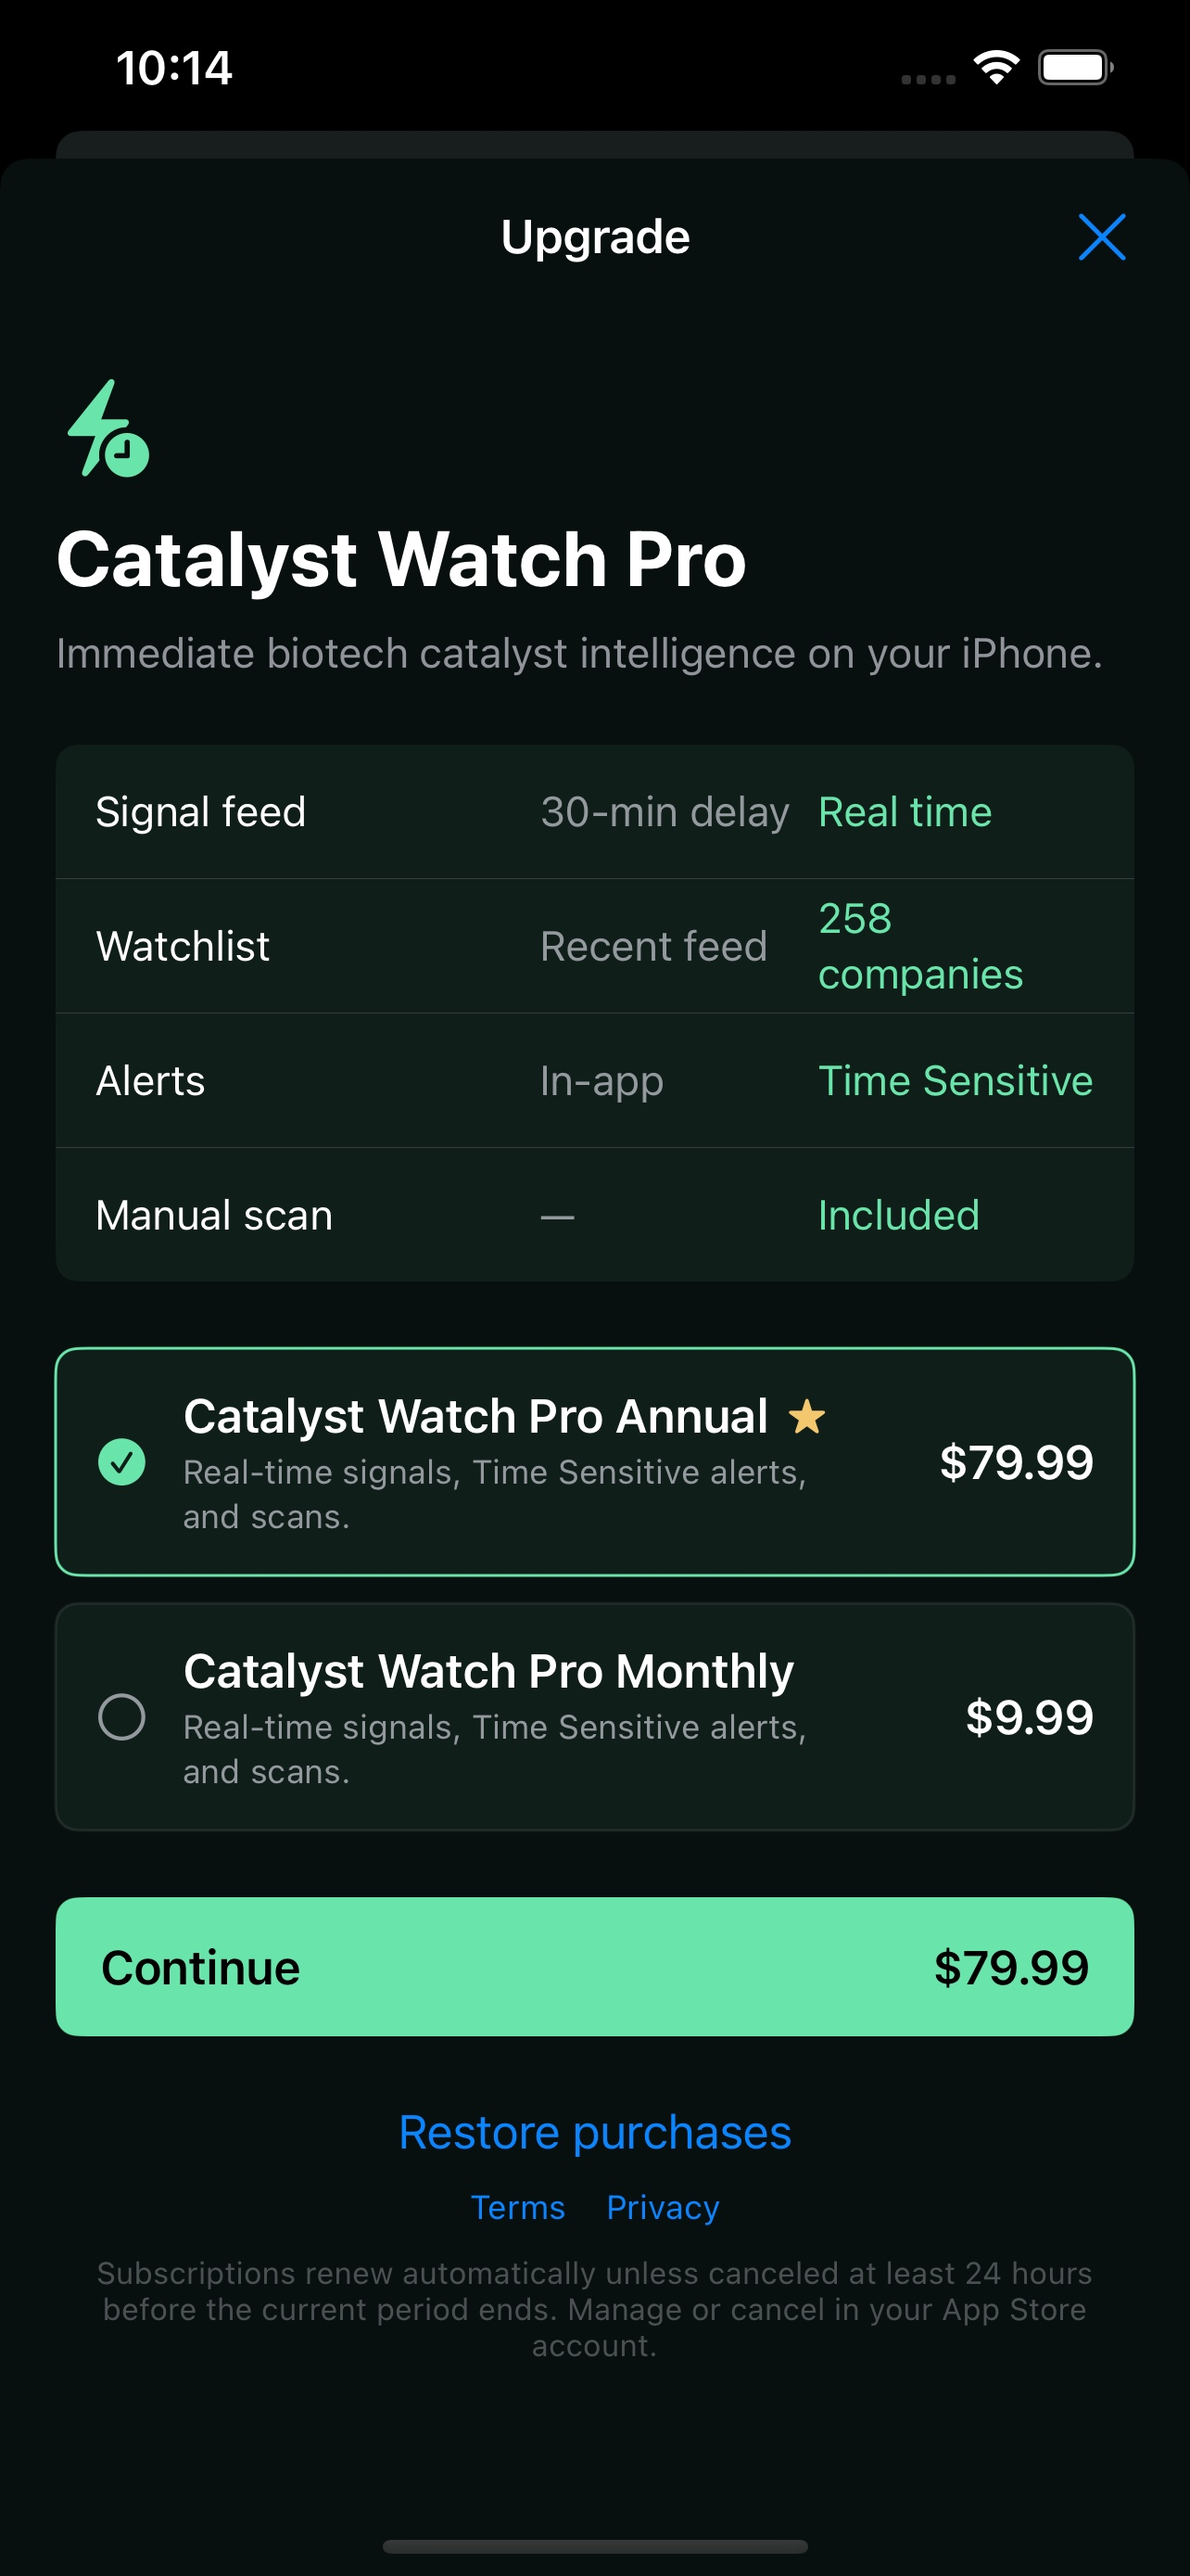
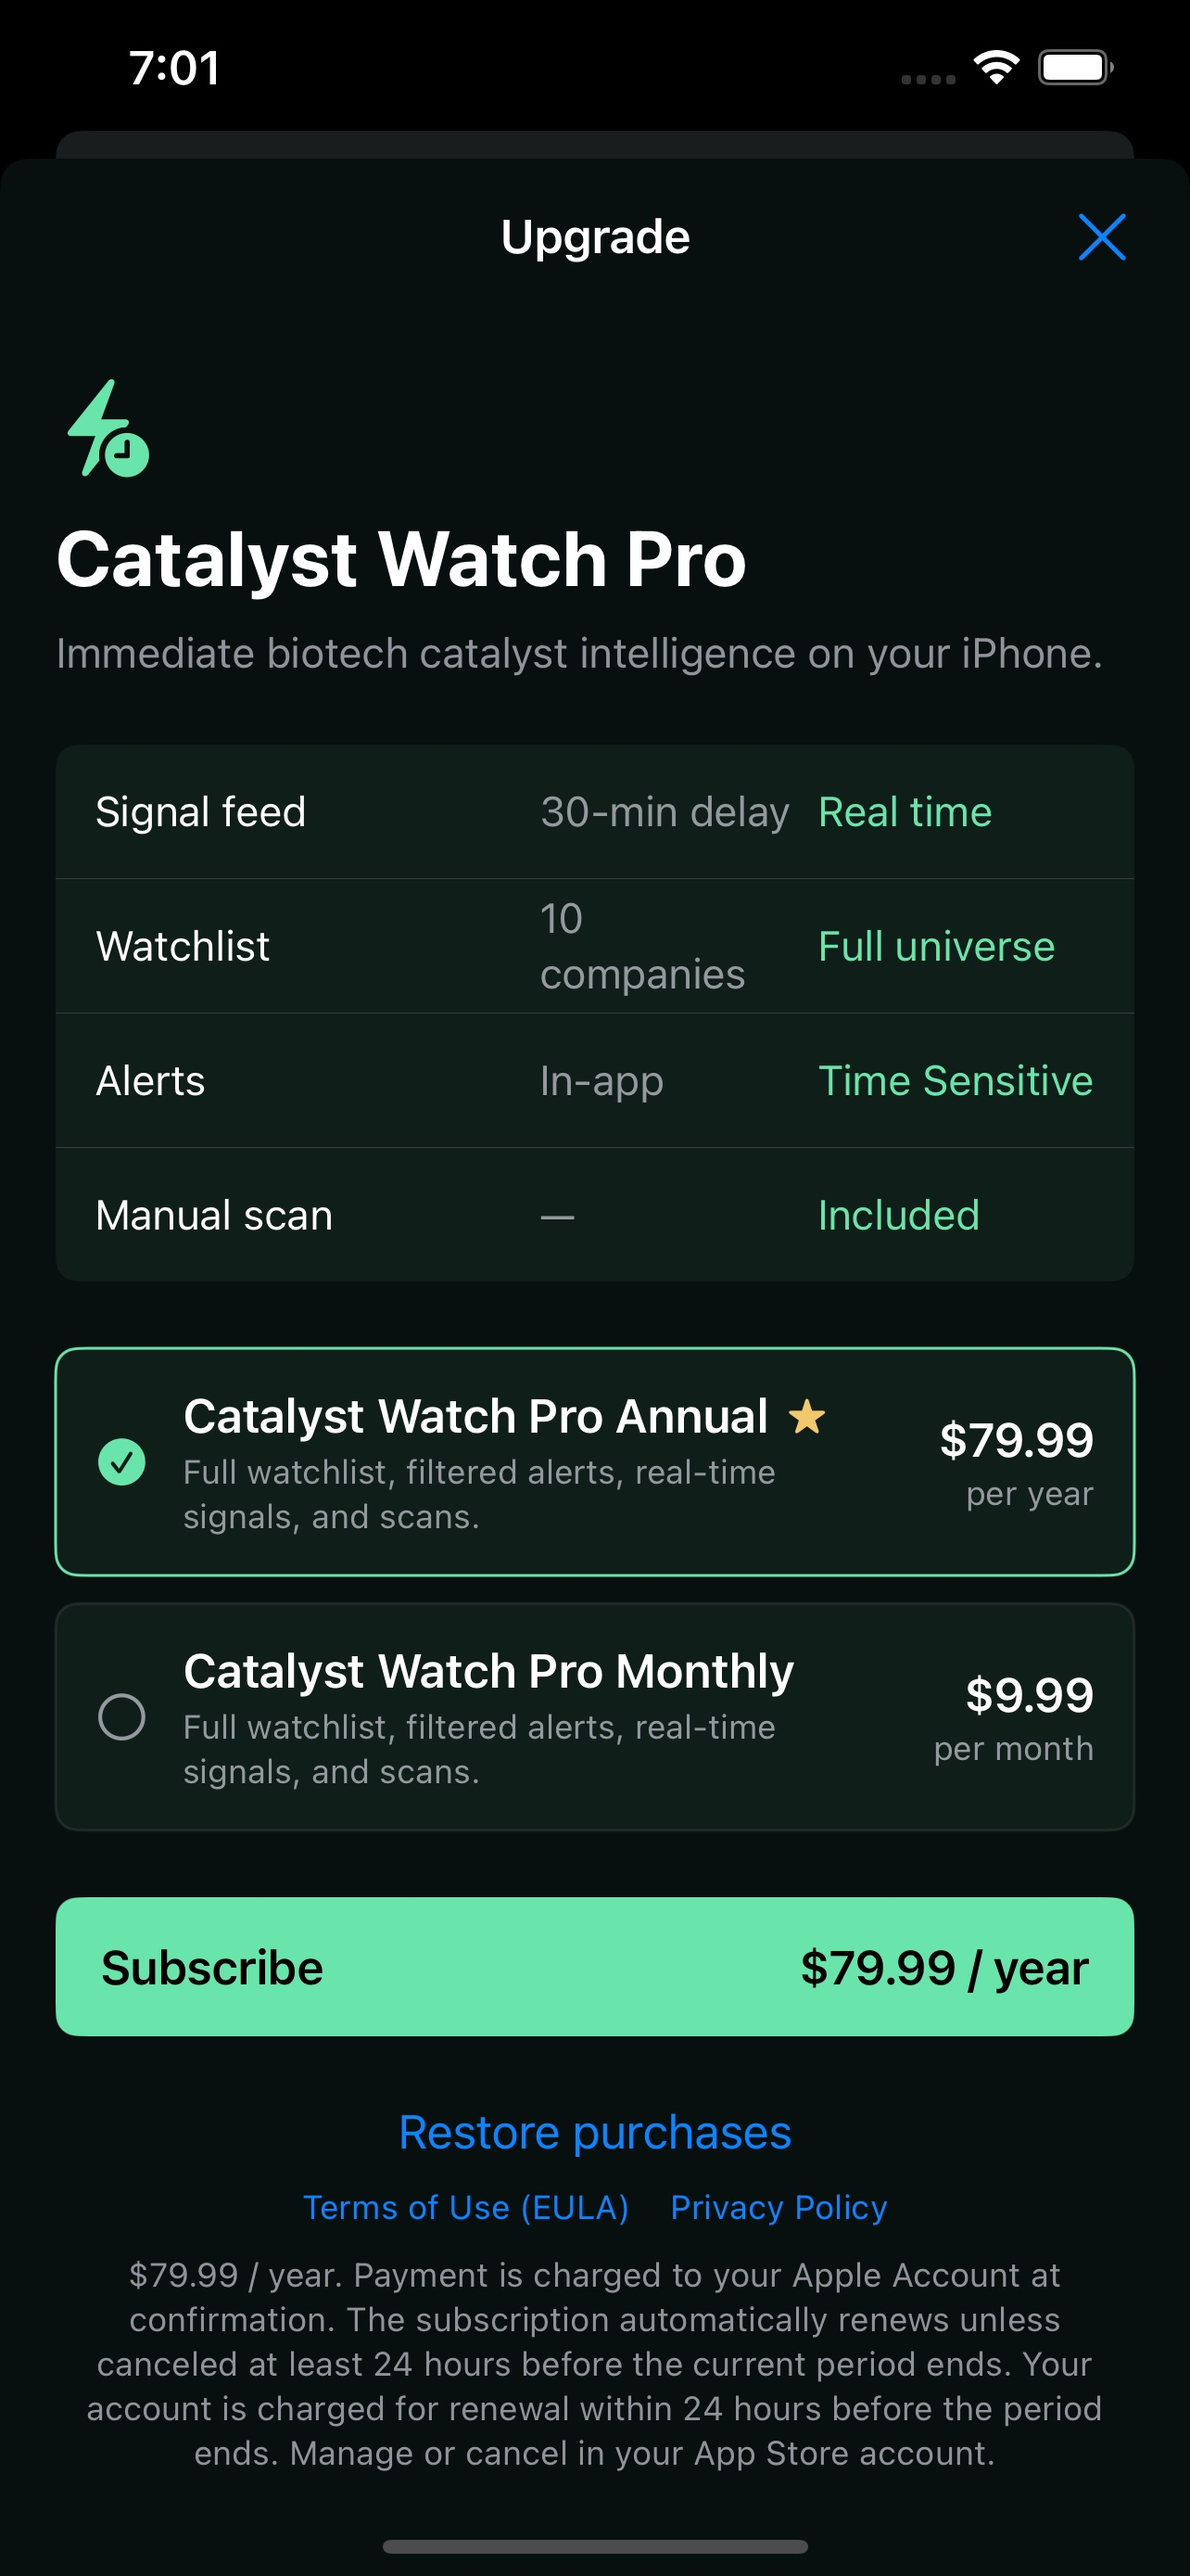
Harden subscription disclosures for App Review

diff --git a/ios/BiotechSignal/SubscriptionView.swift b/ios/BiotechSignal/SubscriptionView.swift
@@ -63,9 +63,9 @@ struct SubscriptionView: View {
                         } label: {
                             HStack {
                                 if store.purchaseInProgress { ProgressView().tint(.black) }
-                                Text(store.purchaseInProgress ? "Processing…" : "Continue")
+                                Text(store.purchaseInProgress ? "Processing…" : "Subscribe")
                                 Spacer()
-                                if let selectedProduct { Text(selectedProduct.displayPrice) }
+                                if let selectedPriceAndPeriod { Text(selectedPriceAndPeriod) }
                             }
                             .font(.headline)
                             .foregroundStyle(.black)
@@ -84,13 +84,13 @@ struct SubscriptionView: View {
                         Button("Restore purchases") { Task { await store.restorePurchases() } }
                             .disabled(store.purchaseInProgress)
                         HStack(spacing: 14) {
-                            Link("Terms", destination: URL(string: "https://www.apple.com/legal/internet-services/itunes/dev/stdeula/")!)
-                            Link("Privacy", destination: URL(string: "https://lackadaisical-a.github.io/monitor/privacy.html")!)
+                            Link("Terms of Use (EULA)", destination: URL(string: "https://www.apple.com/legal/internet-services/itunes/dev/stdeula/")!)
+                            Link("Privacy Policy", destination: URL(string: "https://lackadaisical-a.github.io/monitor/privacy.html")!)
                         }
                         .font(.caption)
-                        Text("Subscriptions renew automatically unless canceled at least 24 hours before the current period ends. Manage or cancel in your App Store account.")
-                            .font(.caption2)
-                            .foregroundStyle(.tertiary)
+                        Text(subscriptionDisclosure)
+                            .font(.caption)
+                            .foregroundStyle(.secondary)
                             .multilineTextAlignment(.center)
                     }
                     .frame(maxWidth: .infinity)
@@ -121,6 +121,20 @@ struct SubscriptionView: View {
         store.products.first { $0.id == selectedProductId }
     }
 
+    private var selectedPriceAndPeriod: String? {
+        if store.screenshotMode {
+            return selectedProductId == MonitorStore.yearlyProductId ? "$79.99 / year" : "$9.99 / month"
+        }
+        guard let selectedProduct else { return nil }
+        return "\(selectedProduct.displayPrice) / \(billingPeriodLabel(for: selectedProduct))"
+    }
+
+    private var subscriptionDisclosure: String {
+        let price = selectedPriceAndPeriod.map { "\($0). " } ?? ""
+        return price
+            + "Payment is charged to your Apple Account at confirmation. The subscription automatically renews unless canceled at least 24 hours before the current period ends. Your account is charged for renewal within 24 hours before the period ends. Manage or cancel in your App Store account."
+    }
+
     @ViewBuilder
     private var screenshotPlans: some View {
         VStack(spacing: 10) {
@@ -128,22 +142,24 @@ struct SubscriptionView: View {
                 id: MonitorStore.yearlyProductId,
                 name: "Catalyst Watch Pro Annual",
                 description: "Full watchlist, filtered alerts, real-time signals, and scans.",
-                price: "$79.99"
+                price: "$79.99",
+                period: "year"
             )
             screenshotProductButton(
                 id: MonitorStore.monthlyProductId,
                 name: "Catalyst Watch Pro Monthly",
                 description: "Full watchlist, filtered alerts, real-time signals, and scans.",
-                price: "$9.99"
+                price: "$9.99",
+                period: "month"
             )
         }
 
         Button {
         } label: {
             HStack {
-                Text("Continue")
+                Text("Subscribe")
                 Spacer()
-                Text(selectedProductId == MonitorStore.yearlyProductId ? "$79.99" : "$9.99")
+                Text(selectedProductId == MonitorStore.yearlyProductId ? "$79.99 / year" : "$9.99 / month")
             }
             .font(.headline)
             .foregroundStyle(.black)
@@ -157,7 +173,8 @@ struct SubscriptionView: View {
         id: String,
         name: String,
         description: String,
-        price: String
+        price: String,
+        period: String
     ) -> some View {
         Button {
             selectedProductId = id
@@ -175,7 +192,11 @@ struct SubscriptionView: View {
                     Text(description).font(.caption).foregroundStyle(.secondary).lineLimit(2)
                 }
                 Spacer()
-                Text(price).font(.headline)
+                VStack(alignment: .trailing, spacing: 2) {
+                    Text(price).font(.headline)
+                    Text("per \(period)").font(.caption).foregroundStyle(.secondary)
+                }
+                .fixedSize(horizontal: true, vertical: false)
             }
             .padding(14)
             .frame(maxWidth: .infinity, minHeight: 70)
@@ -205,7 +226,13 @@ struct SubscriptionView: View {
                     Text(product.description).font(.caption).foregroundStyle(.secondary).lineLimit(2)
                 }
                 Spacer()
-                Text(product.displayPrice).font(.headline)
+                VStack(alignment: .trailing, spacing: 2) {
+                    Text(product.displayPrice).font(.headline)
+                    Text("per \(billingPeriodLabel(for: product))")
+                        .font(.caption)
+                        .foregroundStyle(.secondary)
+                }
+                .fixedSize(horizontal: true, vertical: false)
             }
             .padding(14)
             .frame(maxWidth: .infinity, minHeight: 70)
@@ -216,6 +243,19 @@ struct SubscriptionView: View {
             )
         }
         .buttonStyle(.plain)
+    }
+
+    private func billingPeriodLabel(for product: Product) -> String {
+        guard let period = product.subscription?.subscriptionPeriod else { return "billing period" }
+        let unit: String
+        switch period.unit {
+        case .day: unit = "day"
+        case .week: unit = "week"
+        case .month: unit = "month"
+        case .year: unit = "year"
+        @unknown default: unit = "period"
+        }
+        return period.value == 1 ? unit : "\(period.value) \(unit)s"
     }
 
     private func comparisonRow(_ label: String, free: String, pro: String) -> some View {
